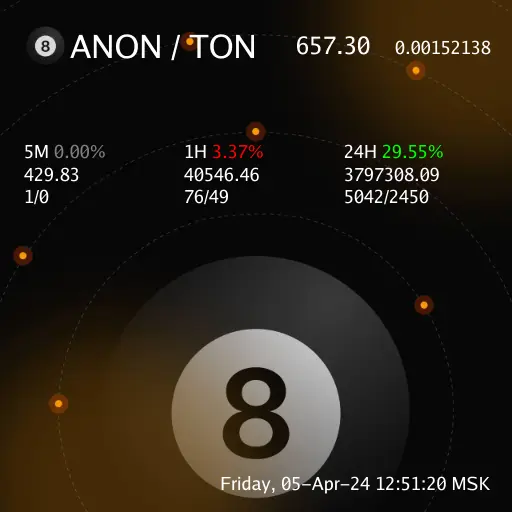
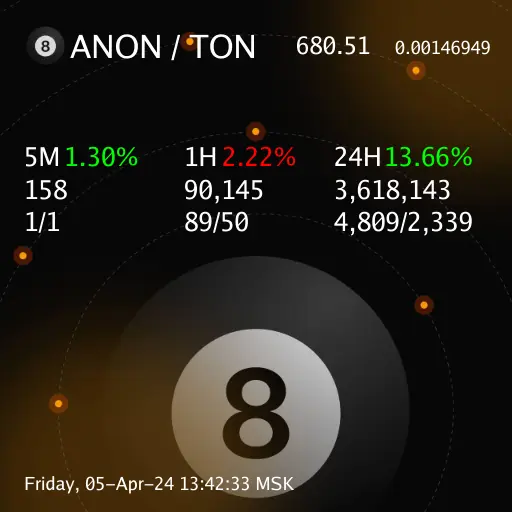
Refactor main.go to improve code readability and handle error cases

diff --git a/main.go b/main.go
@@ -6,6 +6,7 @@ import (
 	"math"
 	"os"
 	"strconv"
+	"strings"
 	"time"
 
 	"github.com/fogleman/gg"
@@ -118,19 +119,22 @@ func main() {
 
 	fmt.Println("-------------------------------------")
 
+	m5Volume := int64(0)
 	m5VolumeFloat, err := strconv.ParseFloat(data.Data.Attributes.VolumeUsd.M5, 64)
-	if err != nil {
-		m5VolumeFloat = 0
+	if err == nil {
+		m5Volume = int64(m5VolumeFloat)
 	}
 
+	h1Volume := int64(0)
 	h1VolumeFloat, err := strconv.ParseFloat(data.Data.Attributes.VolumeUsd.H1, 64)
-	if err != nil {
-		h1VolumeFloat = 0
+	if err == nil {
+		h1Volume = int64(h1VolumeFloat)
 	}
 
+	h24Volume := int64(0)
 	h24VolumeFloat, err := strconv.ParseFloat(data.Data.Attributes.VolumeUsd.H24, 64)
-	if err != nil {
-		h24VolumeFloat = 0.0
+	if err == nil {
+		h24Volume = int64(h24VolumeFloat)
 	}
 
 	m5PricePercentage, err := strconv.ParseFloat(data.Data.Attributes.PriceChangePercentage.M5, 64)
@@ -153,10 +157,10 @@ func main() {
 	fmt.Printf("Quote token price USD: %s\n", data.Data.Attributes.QuoteTokenPriceUsd)
 	fmt.Printf("Base token price quote token: %s\n", data.Data.Attributes.BaseTokenPriceQuoteToken)
 	fmt.Printf("Quote token price base token: %s\n", data.Data.Attributes.QuoteTokenPriceBaseToken)
-	fmt.Printf("Price change percentage M5: %.2f%%, volume %.2f, buy %d/sell %d\n", m5PricePercentage, m5VolumeFloat, data.Data.Attributes.Transactions.M5.Buys, data.Data.Attributes.Transactions.M5.Sells)
-	fmt.Printf("Price change percentage H1: %.2f%%, volume %.2f, buy %d/sell %d\n", h1PricePercentage, h1VolumeFloat, data.Data.Attributes.Transactions.H1.Buys, data.Data.Attributes.Transactions.H1.Sells)
+	fmt.Printf("Price change percentage M5: %.2f%%, volume %d, buy %d/sell %d\n", m5PricePercentage, m5Volume, data.Data.Attributes.Transactions.M5.Buys, data.Data.Attributes.Transactions.M5.Sells)
+	fmt.Printf("Price change percentage H1: %.2f%%, volume %d, buy %d/sell %d\n", h1PricePercentage, h1Volume, data.Data.Attributes.Transactions.H1.Buys, data.Data.Attributes.Transactions.H1.Sells)
 	// fmt.Printf("Price change percentage H6: %.2f%%, volume %.2f \n", data.Data.Attributes.PriceChangePercentage.H6, data.Data.Attributes.VolumeUsd.H6)
-	fmt.Printf("Price change percentage H24: %.2f%%, volume %.2f, buy %d/sell %d\n", h24PricePercentage, h24VolumeFloat, data.Data.Attributes.Transactions.H24.Buys, data.Data.Attributes.Transactions.H24.Sells)
+	fmt.Printf("Price change percentage H24: %.2f%%, volume %d, buy %d/sell %d\n", h24PricePercentage, h24Volume, data.Data.Attributes.Transactions.H24.Buys, data.Data.Attributes.Transactions.H24.Sells)
 	fmt.Printf("Reserve in USD: %s\n", data.Data.Attributes.ReserveInUsd)
 
 	inputFile, err := os.Open(IMG_IN_PATH)
@@ -177,6 +181,7 @@ func main() {
 	font, _ := truetype.Parse(goregular.TTF)
 	face18 := truetype.NewFace(font, &truetype.Options{Size: 18})
 	face24 := truetype.NewFace(font, &truetype.Options{Size: 24})
+	face26 := truetype.NewFace(font, &truetype.Options{Size: 26})
 	face32 := truetype.NewFace(font, &truetype.Options{Size: 32})
 
 	// dc.Clear()
@@ -191,13 +196,14 @@ func main() {
 	dc.SetFontFace(face18)
 	dc.DrawStringAnchored(data.Data.Attributes.BaseTokenPriceQuoteToken, 490, 54, 1, 0)
 
+	dc.SetFontFace(face26)
 	// data.Data.Attributes.PriceChangePercentage.M5,
 	dc.DrawStringWrapped(
 		fmt.Sprintf(
-			"5M\n%.2f\n%d/%d",
-			m5VolumeFloat,
-			data.Data.Attributes.Transactions.M5.Buys,
-			data.Data.Attributes.Transactions.M5.Sells,
+			"5M\n%s\n%s/%s",
+			Comma(m5Volume),
+			Comma(int64(data.Data.Attributes.Transactions.M5.Buys)),
+			Comma(int64(data.Data.Attributes.Transactions.M5.Sells)),
 		),
 		24,
 		140,
@@ -218,8 +224,8 @@ func main() {
 	dc.SetColor(m5PricePercentageColor)
 	dc.DrawStringAnchored(
 		fmt.Sprintf("%.2f%%", math.Abs(m5PricePercentage)),
-		54,
-		158,
+		64,
+		166,
 		0,
 		0,
 	)
@@ -228,10 +234,10 @@ func main() {
 	// data.Data.Attributes.PriceChangePercentage.M5,
 	dc.DrawStringWrapped(
 		fmt.Sprintf(
-			"1H\n%.2f\n%d/%d",
-			h1VolumeFloat,
-			data.Data.Attributes.Transactions.H1.Buys,
-			data.Data.Attributes.Transactions.H1.Sells,
+			"1H\n%s\n%s/%s",
+			Comma(h1Volume),
+			Comma(int64(data.Data.Attributes.Transactions.H1.Buys)),
+			Comma(int64(data.Data.Attributes.Transactions.H1.Sells)),
 		),
 		184,
 		140,
@@ -252,8 +258,8 @@ func main() {
 	dc.SetColor(h1PricePercentageColor)
 	dc.DrawStringAnchored(
 		fmt.Sprintf("%.2f%%", math.Abs(h1PricePercentage)),
-		212,
-		158,
+		222,
+		166,
 		0,
 		0,
 	)
@@ -262,12 +268,12 @@ func main() {
 
 	dc.DrawStringWrapped(
 		fmt.Sprintf(
-			"24H\n%.2f\n%d/%d",
-			h24VolumeFloat,
-			data.Data.Attributes.Transactions.H24.Buys,
-			data.Data.Attributes.Transactions.H24.Sells,
+			"24H\n%s\n%s/%s",
+			Comma(h24Volume),
+			Comma(int64(data.Data.Attributes.Transactions.H24.Buys)),
+			Comma(int64(data.Data.Attributes.Transactions.H24.Sells)),
 		),
-		344,
+		334,
 		140,
 		0,
 		0,
@@ -286,8 +292,8 @@ func main() {
 	dc.SetColor(h24PricePercentageColor)
 	dc.DrawStringAnchored(
 		fmt.Sprintf("%.2f%%", math.Abs(h24PricePercentage)),
-		382,
-		158,
+		384,
+		166,
 		0,
 		0,
 	)
@@ -295,7 +301,7 @@ func main() {
 	dc.SetRGB(1, 1, 1)
 
 	dc.SetFontFace(face18)
-	dc.DrawStringAnchored(time.Now().Format(time.RFC850), 490, 490, 1, 0)
+	dc.DrawStringAnchored(time.Now().Format(time.RFC850), 24, 490, 0, 0)
 
 	outputFile, err := os.Create(IMG_OUT_PATH)
 	if err != nil {
@@ -316,4 +322,39 @@ func main() {
 	}
 
 	fmt.Println("-------------------------------------")
+}
+
+// Comma produces a string form of the given number in base 10 with
+// commas after every three orders of magnitude.
+//
+// e.g. Comma(834142) -> 834,142
+func Comma(v int64) string {
+	sign := ""
+
+	// Min int64 can't be negated to a usable value, so it has to be special cased.
+	if v == math.MinInt64 {
+		return "-9,223,372,036,854,775,808"
+	}
+
+	if v < 0 {
+		sign = "-"
+		v = 0 - v
+	}
+
+	parts := []string{"", "", "", "", "", "", ""}
+	j := len(parts) - 1
+
+	for v > 999 {
+		parts[j] = strconv.FormatInt(v%1000, 10)
+		switch len(parts[j]) {
+		case 2:
+			parts[j] = "0" + parts[j]
+		case 1:
+			parts[j] = "00" + parts[j]
+		}
+		v = v / 1000
+		j--
+	}
+	parts[j] = strconv.Itoa(int(v))
+	return sign + strings.Join(parts[j:], ",")
 }
